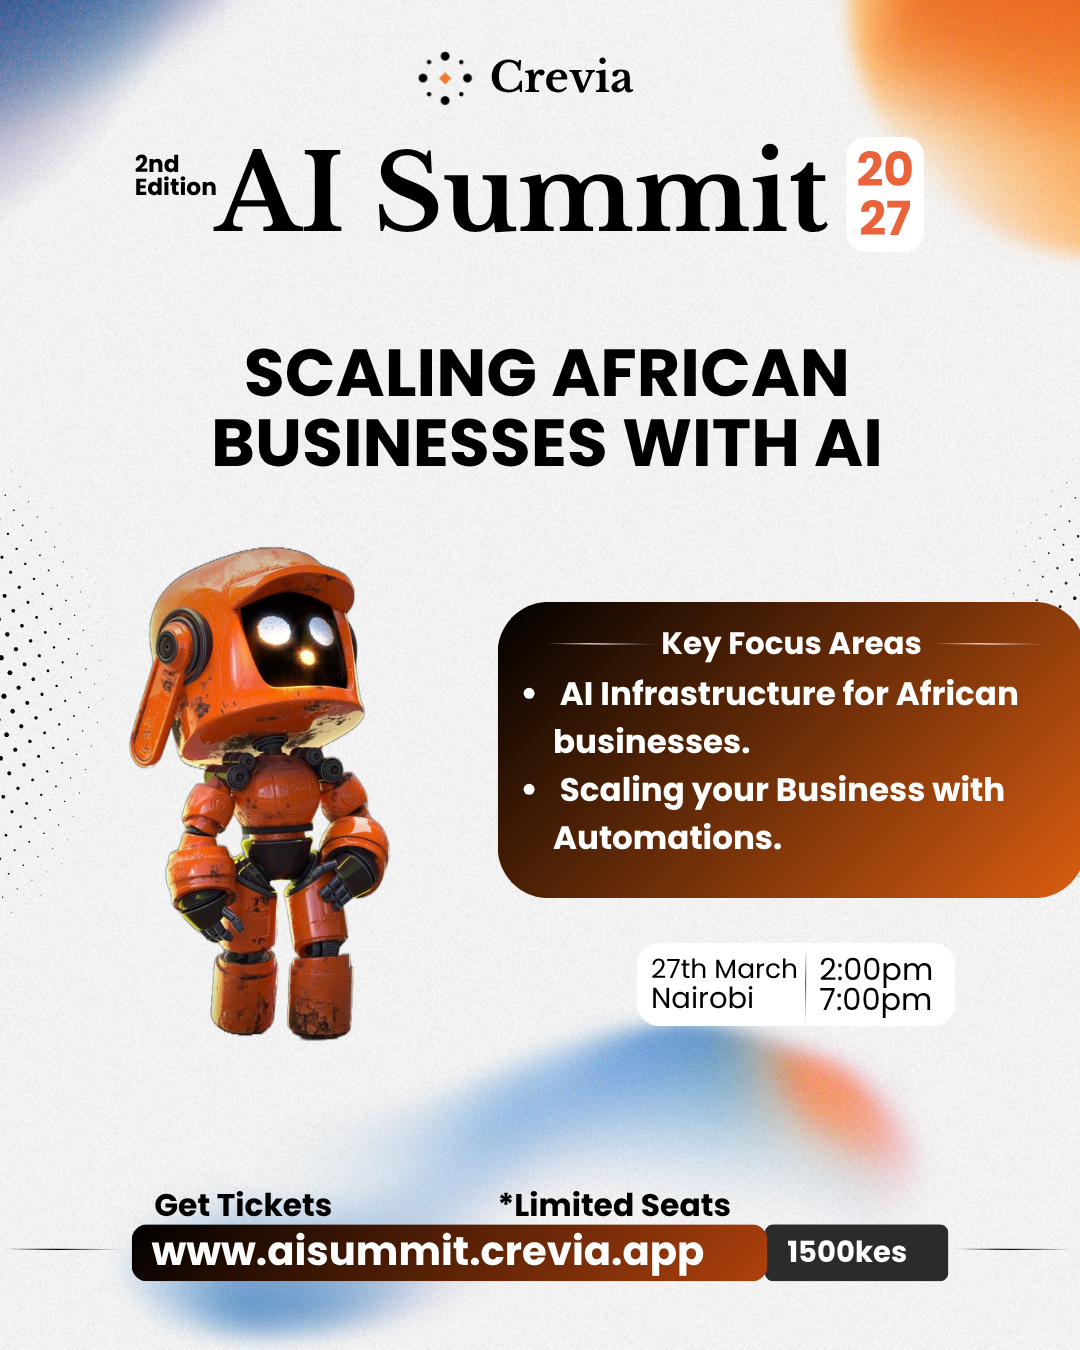
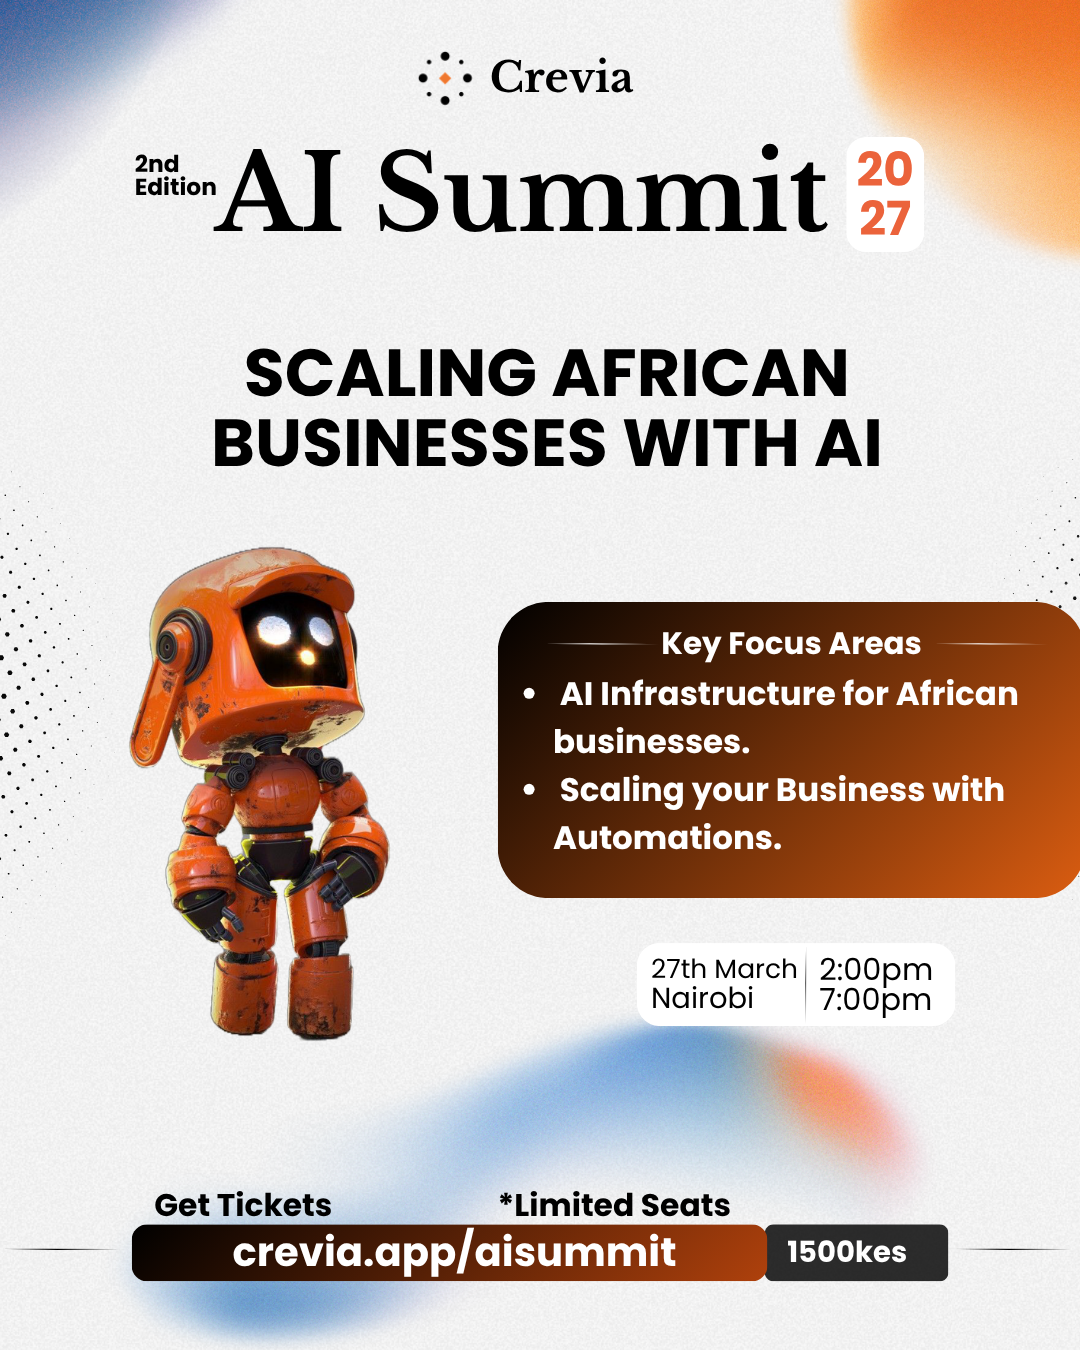
Refresh AI Summit poster and location note

Changed region(s): [[0.1222, 0.9022, 0.6722, 0.9644]]

diff --git a/aisummit.html b/aisummit.html
@@ -107,18 +107,17 @@
             <div class="hero-copy mt-11 grid max-w-xl grid-cols-3 border-t border-white/10 pt-6" style="--delay:.54s">
               <div class="pr-4"><p class="text-[10px] uppercase tracking-[.2em] text-white/45">Date</p><p class="mt-2 text-sm font-semibold text-white sm:text-base">27 March 2027</p></div>
               <div class="border-l border-white/10 px-4"><p class="text-[10px] uppercase tracking-[.2em] text-white/45">Time</p><p class="mt-2 text-sm font-semibold text-white sm:text-base">2:00 - 8:00 PM</p></div>
-              <div class="border-l border-white/10 pl-4"><p class="text-[10px] uppercase tracking-[.2em] text-white/45">Location</p><p class="mt-2 text-sm font-semibold text-white sm:text-base">Nairobi, Kenya</p></div>
+              <div class="border-l border-white/10 pl-4"><p class="text-[10px] uppercase tracking-[.2em] text-white/45">Location</p><p class="mt-2 text-sm font-semibold text-white sm:text-base">Nairobi, Kenya</p><p class="mt-1 text-[10px] leading-4 text-white/45">Exact location to be announced</p></div>
             </div>
           </div>
 
           <div class="hero-poster relative mx-auto w-full max-w-[650px] lg:justify-self-end">
             <div class="absolute -inset-5 rounded-[2.5rem] bg-[radial-gradient(ellipse_at_center,rgba(219,93,17,.20),transparent_70%)] blur-xl"></div>
-            <div class="premium-card relative overflow-hidden rounded-[1.8rem] border border-white/15 bg-[#f4f2ed] p-2 shadow-[0_30px_100px_rgba(0,0,0,.48)] sm:rounded-[2.25rem] sm:p-3">
-              <img src="crevia/images/ai-summit-2027-poster.png" alt="Full AI Summit 2027 poster: Scaling African Businesses with AI" class="mx-auto block h-auto max-h-[72vh] w-full rounded-[1.3rem] object-contain object-center sm:rounded-[1.75rem]" fetchpriority="high" decoding="async">
-            </div>
+            <img src="crevia/images/ai-summit-2027-poster.png" alt="AI Summit 2027 poster: Scaling African Businesses with AI" class="relative mx-auto block h-auto max-h-[82vh] w-full object-contain object-center drop-shadow-[0_30px_60px_rgba(0,0,0,.42)]" fetchpriority="high" decoding="async">
             <div class="absolute -bottom-5 left-5 rounded-2xl border border-white/15 bg-[#10100f]/90 px-4 py-3 shadow-xl backdrop-blur-xl sm:bottom-6 sm:left-[-1.25rem] sm:px-5">
               <p class="text-[9px] font-bold uppercase tracking-[.24em] text-ember">In person</p>
               <p class="mt-1 text-sm font-semibold text-white">Nairobi, Kenya</p>
+              <p class="mt-1 text-[10px] leading-4 text-white/55">Exact location to be announced</p>
             </div>
           </div>
         </div>
